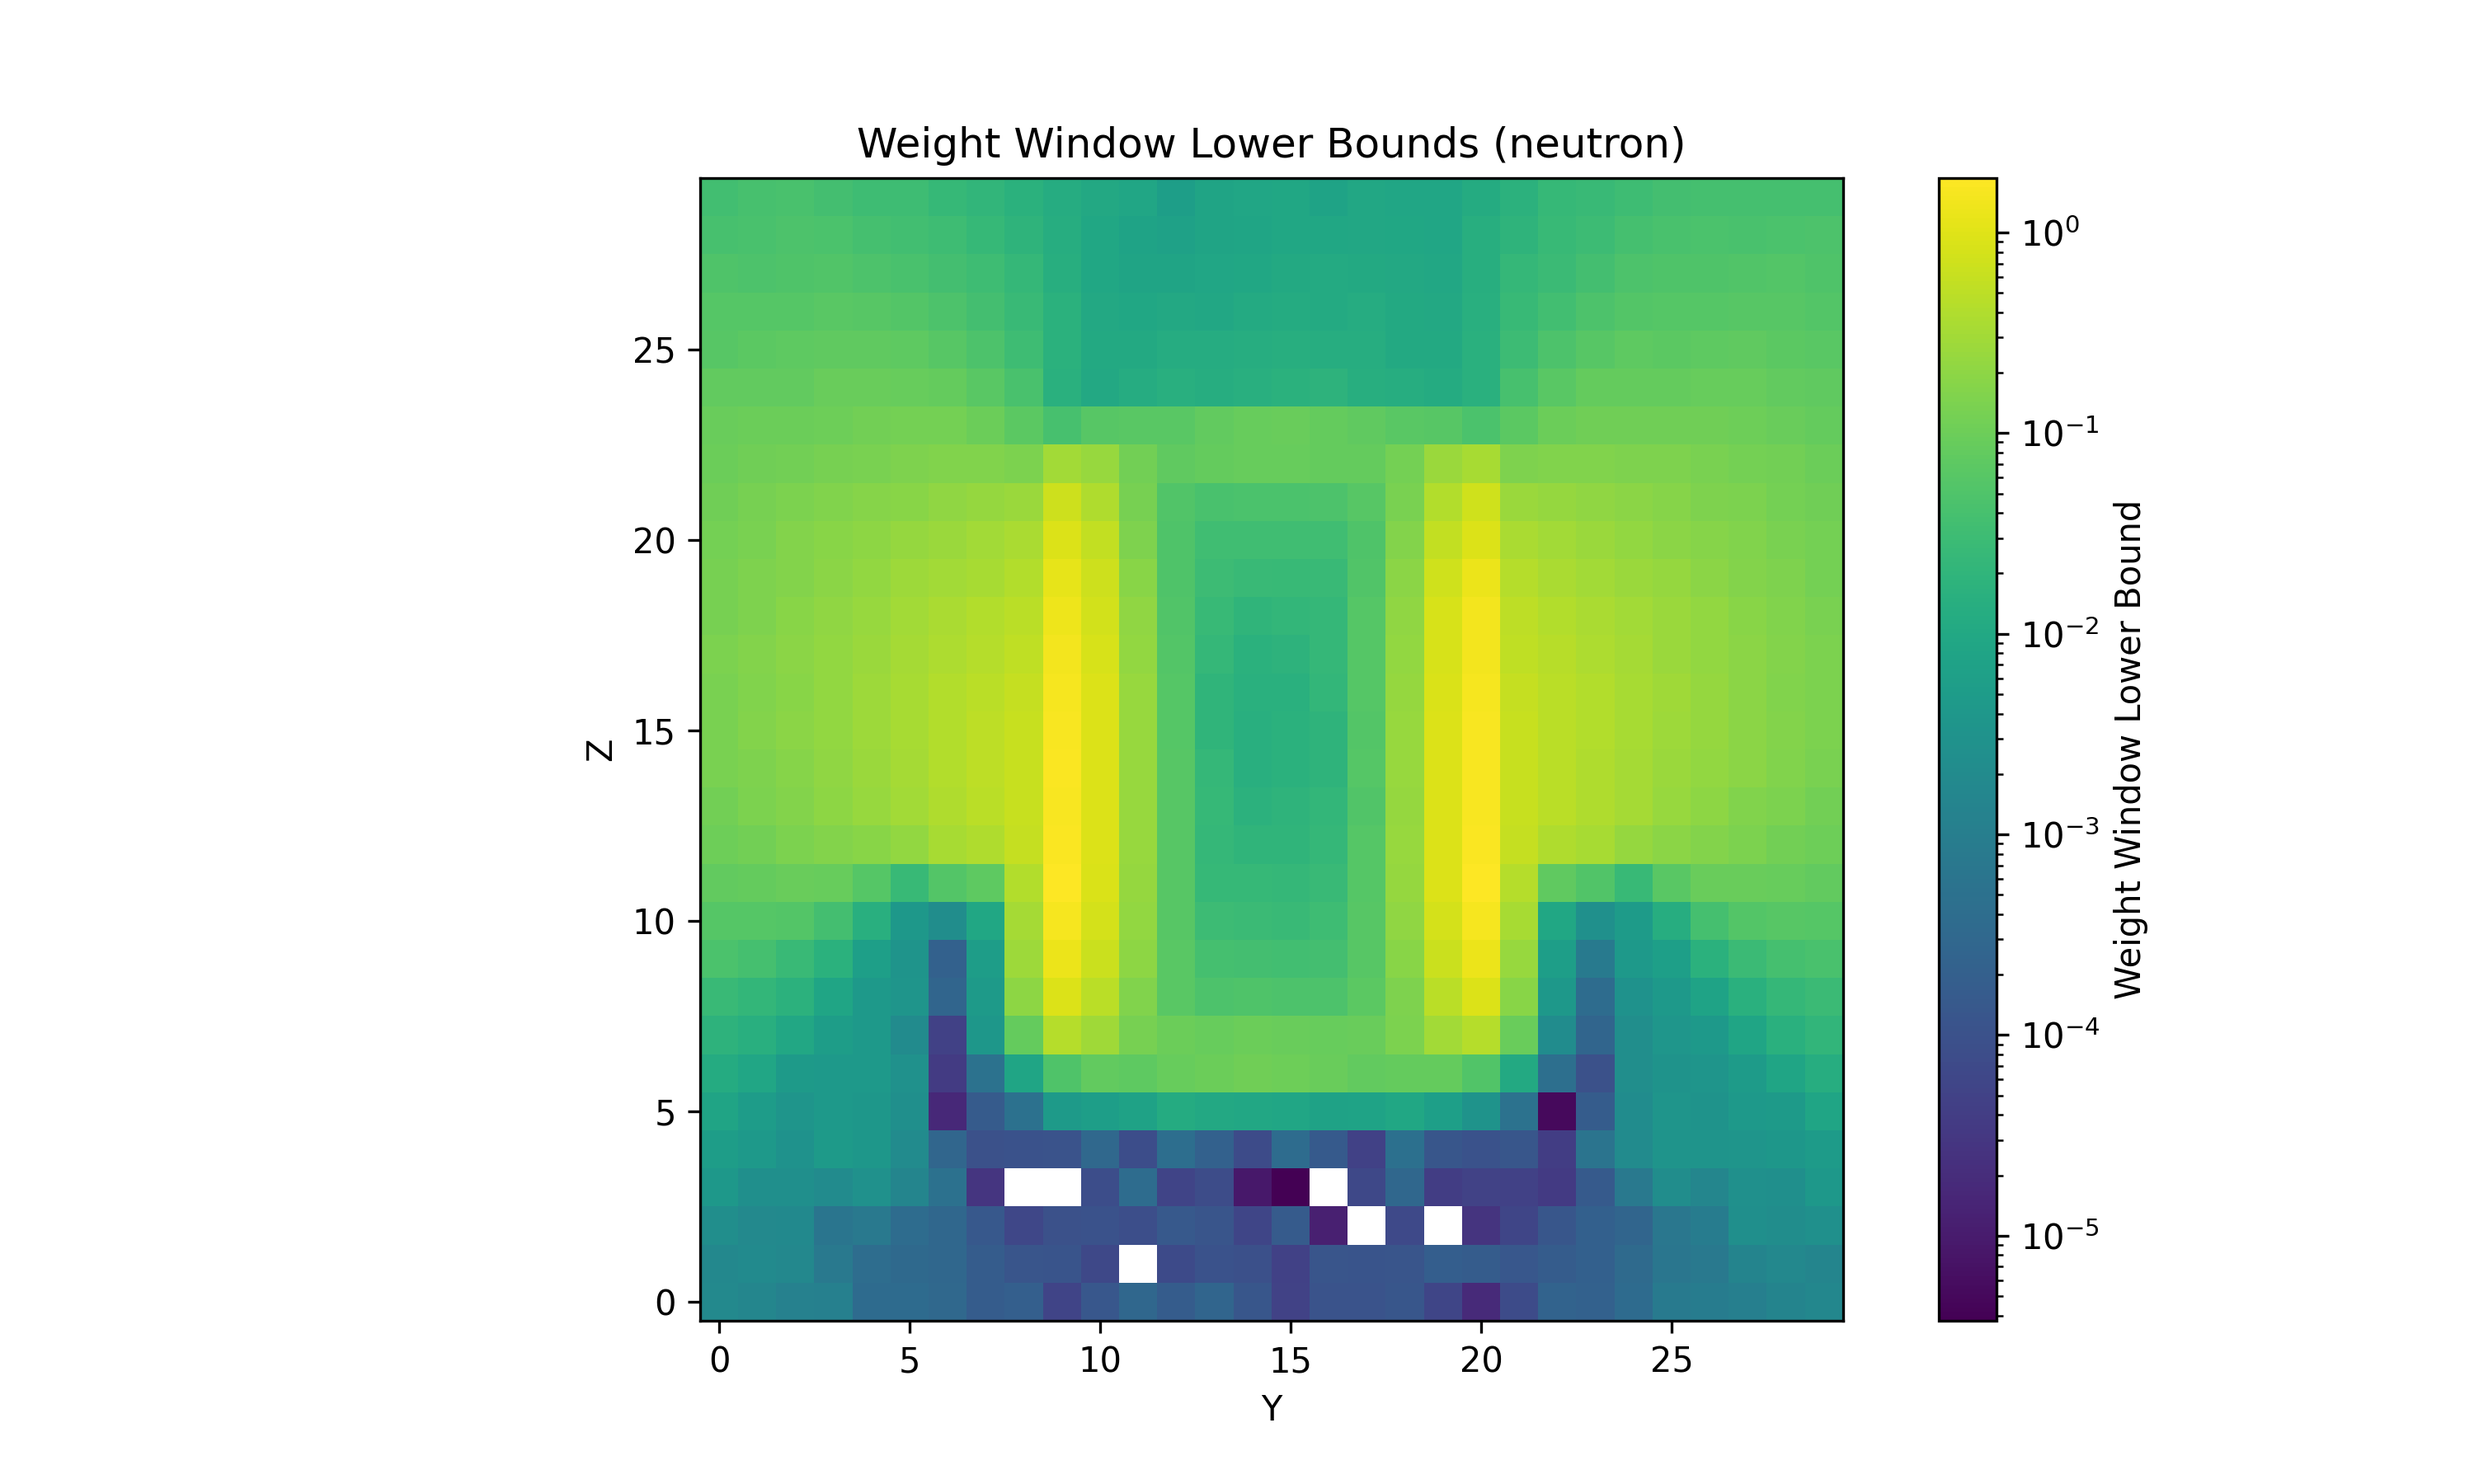
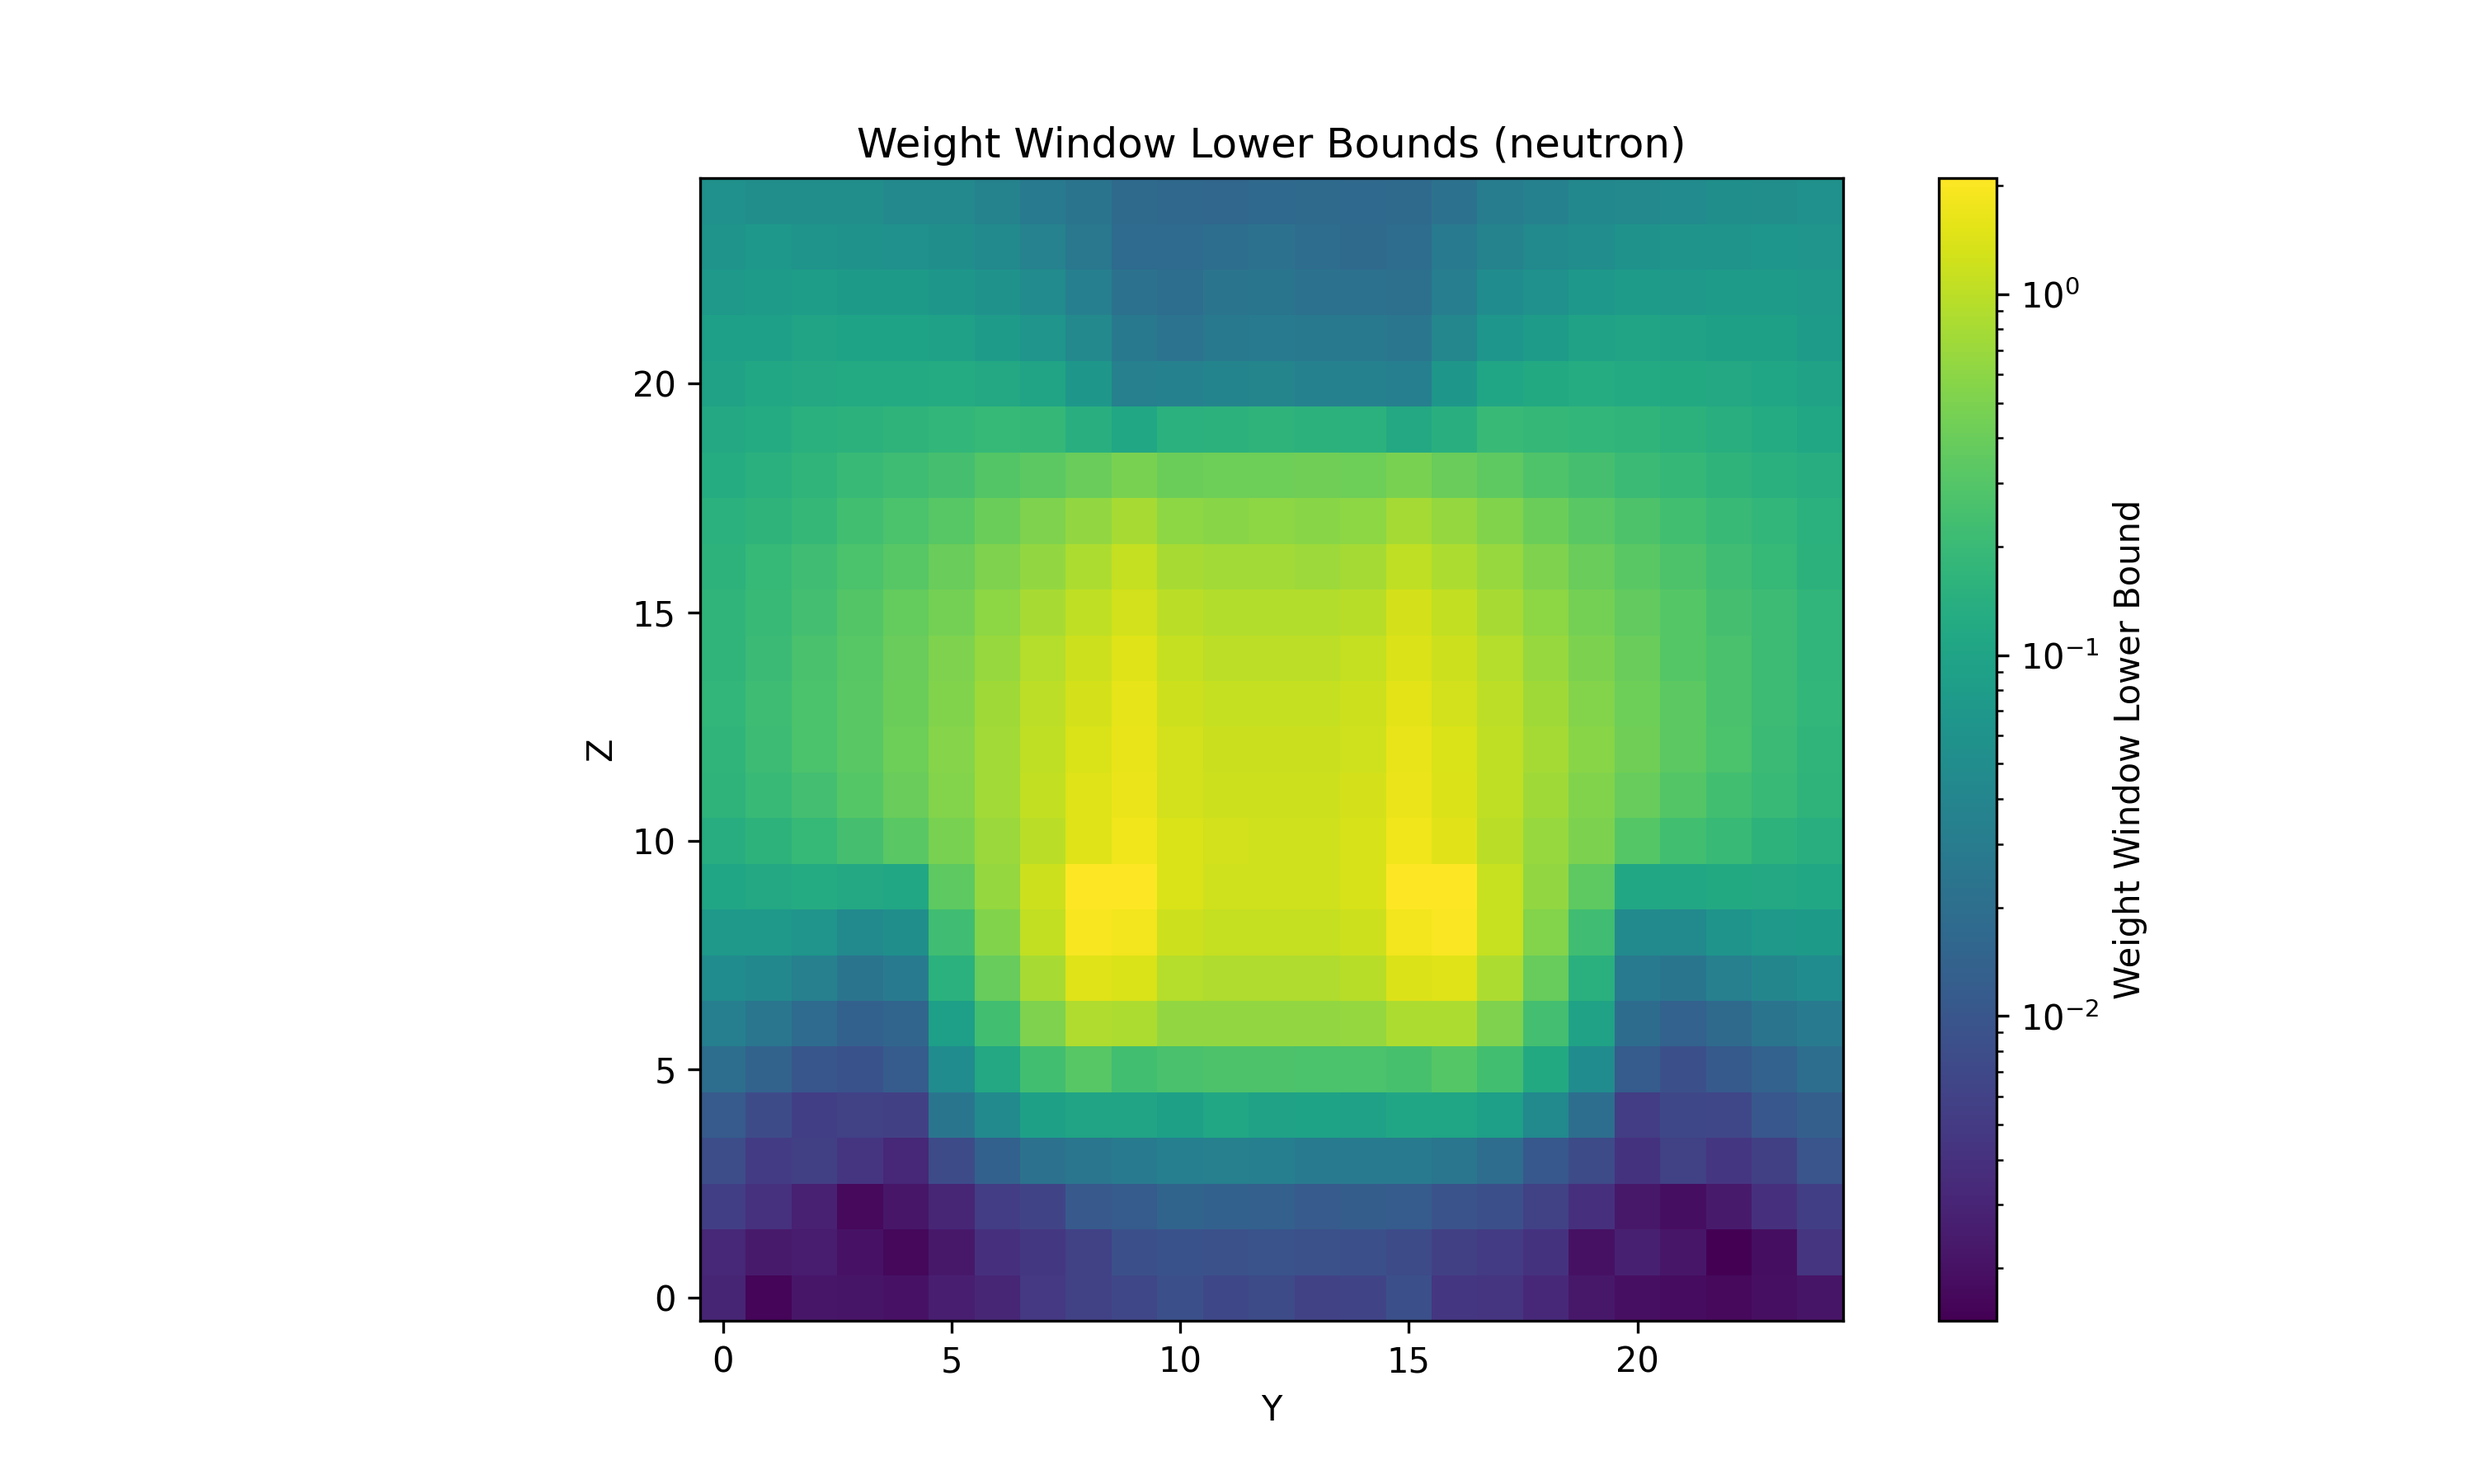
feat:add_sensi_temperature

diff --git a/src/studies/reactor_study/sensi_temperature_core/pilot_sensi.py b/src/studies/reactor_study/sensi_temperature_core/pilot_sensi.py
@@ -1,0 +1,169 @@
+import openmc
+import os 
+import time
+import json
+import matplotlib.pyplot as plt
+from matplotlib.colors import LogNorm
+from pathlib import Path
+import sys 
+from PIL import Image
+import numpy as np
+
+CWD = Path(__file__).parent.resolve()
+
+project_root = Path(__file__).resolve().parents[4]  
+sys.path.append(str(project_root))
+from parameters.parameters_paths import PATH_TO_CROSS_SECTIONS
+from src.utils.pre_processing.pre_processing import (remove_previous_results, remove_surface_source_files, estimate_fissions_and_neutrons)
+os.environ["OPENMC_CROSS_SECTIONS"] = PATH_TO_CROSS_SECTIONS
+
+from src.models.model_complete_reactor import MODEL, GRAPHITE_CELL
+
+# MODEL.export_to_xml()
+material = MODEL.materials
+geometry = MODEL.geometry
+graphite_cell = GRAPHITE_CELL
+
+# Variable definition
+flux_array = []
+fission_rate_array = []
+nu_fission_rate_array= []
+keff_array = []
+temperature = [450 ,600, 750, 900, 1050, 1200, 1350 ,1500]  # K
+
+for temp in temperature:
+    for index, mat in enumerate(material):
+        if mat.name == "Graphite":
+            mat.temperature = temp  # Set the temperature to 300 K for all materials
+        elif mat.name == "Fuel":
+            mat.temperature = temp
+        elif mat.name == "borated_steel":
+            mat.temperature = temp - 100
+        elif mat.name == "Beryllium":
+            mat.temperature = temp - 120
+        else: 
+            mat.temperature = 300
+
+    material.export_to_xml()
+    geometry.export_to_xml()
+
+
+
+    # Calcul de criticité simple 
+    settings = openmc.Settings()
+    batches_number= 100
+    settings.batches = batches_number
+    settings.inactive = 15
+    settings.particles = 20000
+    settings.source = openmc.Source()
+    settings.source.space = openmc.stats.Point((0, 0, 0))
+    settings.source.particle = 'neutron'
+    settings.photon_transport = True
+    settings.temperature = {'method': 'interpolation', 'range': (100, 1500)}  # Temperature range for sensitivity analysis
+
+    # tally pour le flux dans le détecteur
+    flux_tally = openmc.Tally(name="flux_tally")
+    flux_tally.scores = ['flux']
+    flux_tally.filters = [openmc.CellFilter(graphite_cell), openmc.ParticleFilter("neutron")]
+
+    # Tally for fission rate
+    fission_tally = openmc.Tally(name="fission_rate_tally")
+    fission_tally.scores = ['fission']
+    fission_tally.filters = [openmc.CellFilter(graphite_cell)]
+
+    nu_fission_tally = openmc.Tally(name="nu_fission_rate_tally")
+    nu_fission_tally.scores = ['nu-fission']
+    nu_fission_tally.filters = [openmc.CellFilter(graphite_cell), openmc.ParticleFilter("neutron")]
+
+
+    tallies = openmc.Tallies([flux_tally, fission_tally, nu_fission_tally])
+
+    settings.export_to_xml()
+
+    tallies.export_to_xml()
+
+    remove_surface_source_files()
+    remove_previous_results(batches_number=batches_number)
+    start_time = time.time()
+    openmc.run()
+    end_time = time.time()  
+    calculation_time = end_time - start_time
+
+    output_json = CWD / "calculation_time.json"
+    with open(output_json, "w") as f:
+        json.dump({"calculation_time_seconds": calculation_time}, f)
+
+    statepoint_file = openmc.StatePoint(f'statepoint.{batches_number}.h5')
+
+    # load fission rate and error into a tuple
+    flux_tally_results = statepoint_file.get_tally(name="flux_tally")
+    flux_tuple = (flux_tally_results.mean.flatten(), flux_tally_results.std_dev.flatten())
+    flux_array.append(flux_tuple)
+
+    fission_rate_results = statepoint_file.get_tally(name="fission_rate_tally")
+    fission_rate_tuple = (fission_rate_results.mean.flatten(), fission_rate_results.std_dev.flatten())
+    fission_rate_array.append(fission_rate_tuple)
+
+
+    nu_fission_rate_results = statepoint_file.get_tally(name="nu_fission_rate_tally")
+    nu_fission_rate_tuple = (nu_fission_rate_results.mean.flatten(), nu_fission_rate_results.std_dev.flatten())
+    nu_fission_rate_array.append(nu_fission_rate_tuple)
+
+
+    keff_results = statepoint_file.keff
+    keff_tuple = (keff_results.nominal_value, keff_results.std_dev)
+    keff_array.append(keff_tuple)
+
+# Save results to a JSON file
+results = {
+    "flux": flux_array,
+    "fission_rate": fission_rate_array,
+    "nu_fission_rate": nu_fission_rate_array,
+    "keff": keff_array,
+    "temperature": temperature
+}
+output_json = CWD / "sensitivity_temperature_results.json"
+with open(output_json, "w") as f:
+    json.dump(results, f, indent=4)
+
+# plot results 
+plt.figure(figsize=(10, 6))
+plt.errorbar(temperature, [x[0] for x in keff_array], 
+             yerr=[x[1] for x in keff_array], fmt='o-', color='orange')
+plt.xlabel('Temperature [K]')
+plt.ylabel('Value')
+plt.title('Sensitivity Keff Results')
+plt.grid()
+plt.savefig(CWD / "sensitivity_keff_temp.png")
+plt.show()
+
+plt.figure(figsize=(10, 6))
+plt.errorbar(temperature, [x[0][0] for x in flux_array], 
+            yerr=[x[1][0] for x in flux_array], fmt='o-', color='blue')
+plt.xlabel('Temperature [K]')
+plt.ylabel('Flux [neutrons/cm²/source particle]')
+plt.title('Sensitivity Neutron Flux Results')
+plt.grid()
+plt.savefig(CWD / "sensitivity_flux_temp.png")
+plt.show()
+
+
+plt.figure(figsize=(10, 6))
+plt.errorbar(temperature, [x[0][0] for x in fission_rate_array], 
+            yerr=[x[1][0] for x in fission_rate_array], fmt='o-', color='red')
+plt.xlabel('Temperature [K]')
+plt.ylabel('Fission Rate [fissions/source particle]')
+plt.title('Sensitivity Fission Rate Results')
+plt.grid()
+plt.savefig(CWD / "sensitivity_fission_rate_temp.png")
+plt.show()
+
+plt.figure(figsize=(10, 6))
+plt.errorbar(temperature, [x[0][0] for x in nu_fission_rate_array], 
+            yerr=[x[1][0] for x in nu_fission_rate_array], fmt='o-', color='green')
+plt.xlabel('Temperature [K]')
+plt.ylabel('Nu Fission Rate [neutrons produced by fission/source particle]')
+plt.title('Sensitivity Nu Fission Rate Results')
+plt.grid()
+plt.savefig(CWD / "sensitivity_nu_fission_rate_temp.png")
+plt.show()

diff --git a/src/studies/reactor_study/secondary_source/source_using_weight_window/wwg_creation_fw_cadis/wwg_creation.py b/src/studies/reactor_study/secondary_source/source_using_weight_window/wwg_creation_fw_cadis/wwg_creation.py
@@ -23,20 +23,28 @@ os.environ["OPENMC_CROSS_SECTIONS"] = PATH_TO_CROSS_SECTIONS
 
 from src.models.model_complete_reactor import MODEL, GRAPHITE_CELL, CALCULATION_CELL
 
-materials = MODEL.materials
+rr_model = deepcopy(MODEL)
+
+materials = rr_model.materials
 for index,material in enumerate(materials):
-    materials[index] = reducing_density(material, 10)  
+    materials[index] = reducing_density(material, 2)  
 
-MODEL.materials = materials
-MODEL.export_to_xml()
+rr_model.materials = materials
+rr_model.convert_to_multigroup(
+    method="stochastic_slab",
+    overwrite_mgxs_library=True,
+    nparticles=2000,
+)
+rr_model.convert_to_random_ray()
+rr_model.export_to_xml()
 
-geometry = MODEL.geometry
+geometry = rr_model.geometry
 
 settings = openmc.Settings()
 batches_number= 1
 settings.batches = batches_number
 settings.inactive = 0
-settings.particles = 10000000 # try more
+settings.particles = 50000000 # try more
 settings.source = openmc.FileSource('surface_source.h5')
 settings.photon_transport = True
 
@@ -51,7 +59,7 @@ wwg_neutron = openmc.WeightWindowGenerator(
     mesh=mesh,  
     energy_bounds=energy_bounds,
     particle_type='neutron', 
-    method="magic"
+    method="fw_cadis"
 )
 
 wwg_photon = deepcopy(wwg_neutron)

diff --git a/src/studies/weight_window/corrector_tally_ww.py b/src/studies/weight_window/corrector_tally_ww.py
@@ -17,9 +17,10 @@ importance_map = np.zeros((nx, ny, nz))
 # Calcul de l'importance : inverse de la distance à la cible
 for i, x in enumerate(x_vals):
     for j, y in enumerate(y_vals):
-        pos = np.array([x, y, 0.0])
-        dist = np.linalg.norm(pos - target)
-        importance_map[i, j] = (1.0 / (dist + 1.0))*10
+        for k, z in enumerate(z_vals):
+            pos = np.array([x, y, z])
+            dist = np.linalg.norm(pos - target)
+            importance_map[i, j, k] = ((dist + 1.0))/1000
 
 # Affichage avec matplotlib et échelle logarithmique
 fig, ax = plt.subplots(figsize=(8, 6))
@@ -33,6 +34,6 @@ im = ax.imshow(
 ax.set_title(f"Carte d'importance centrée sur la cible ({target[0]}, {target[1]}, {target[2]}) cm")
 ax.set_xlabel("x (cm)")
 ax.set_ylabel("y (cm)")
-fig.colorbar(im, ax=ax, label="Importance (1 / distance)")
+fig.colorbar(im, ax=ax, label="Importance (distance)")
 plt.tight_layout()
 plt.show()

diff --git a/parameters/parameters_materials.py b/parameters/parameters_materials.py
@@ -99,6 +99,7 @@ LEAD_MATERIAL = lead
 # GRAPHITE FUEL MATERIALS ##
 graphite = openmc.Material(name="Graphite")
 graphite.add_element("C", 1.0)
+graphite.add_s_alpha_beta('c_Graphite')
 graphite.set_density("g/cm3", 1.7)
 GRAPHITE_MATERIAL = graphite
 
